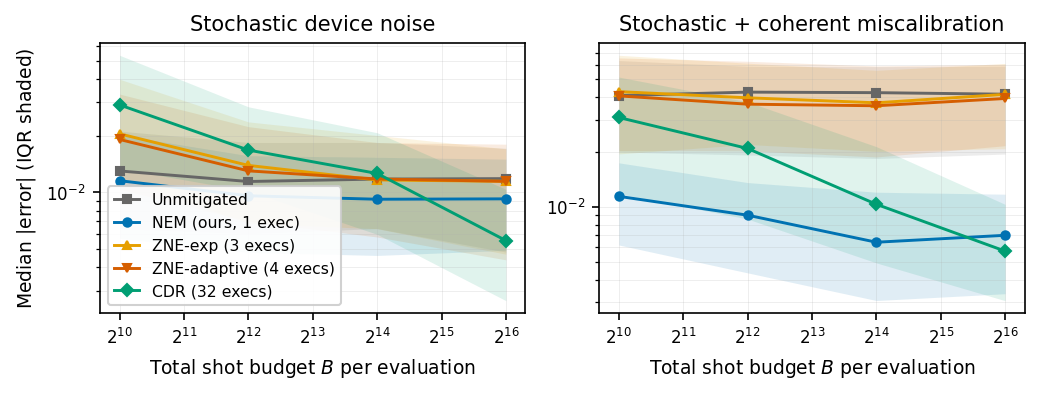
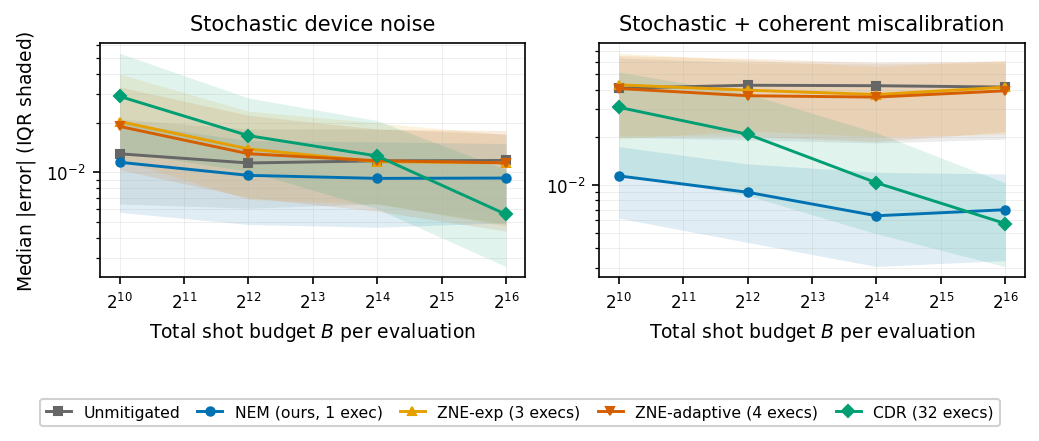
Fix figure legibility: straighten Figure 1 fusion arrows, separate cost/result boxes, move Fig 2-4 legends outside plot area

diff --git a/paper/figures/overview_diagram.tex b/paper/figures/overview_diagram.tex
@@ -112,11 +112,9 @@
 \node[bluebox, minimum width=2.7cm, minimum height=0.9cm] (pred) at (20.15, 2.3)
     {$\langle H \rangle_{\mathrm{pred}} \approx \langle H \rangle_{\mathrm{ideal}}$};
 
-% embeddings into the fusion block (orthogonal routing)
-\draw[arrow, rounded corners=6pt] (mlpc.east) -- ++(0.50, 0) |- ($(fusion.west)+(0, 0.35)$);
-\draw[arrow, rounded corners=6pt] (mlpn.east) -- ++(0.50, 0) |- ($(fusion.west)+(0,-0.35)$);
-\node[font=\sffamily\footnotesize] at (13.42, 3.38) {$\mathbf{z}_c$};
-\node[font=\sffamily\footnotesize] at (13.42, 1.22) {$\mathbf{z}_n$};
+% embeddings converge into the fusion block (straight arrows)
+\draw[arrow] (mlpc.east) -- ($(fusion.west)+(0, 0.42)$);
+\draw[arrow] (mlpn.east) -- ($(fusion.west)+(0,-0.42)$);
 
 % noisy value feeds the fusion directly (clear corridor between branches)
 \draw[arrow] (hnoisy.east) -- (fusion.west);
@@ -131,15 +129,18 @@
 % =====================================================================
 % (d) Complementarity strip
 % =====================================================================
-\node[font=\sffamily\footnotesize\bfseries, text=black!70] at (10.75, -0.18)
+\node[font=\sffamily\footnotesize\bfseries, text=black!70] at (10.75, 0.10)
     {Equal-budget comparison: every method spends the same total shots $B$ per evaluation};
 
-\node[greenbox, minimum width=10.4cm, minimum height=1.1cm] (regA) at (5.2, -1.10)
-    {\textbf{Quantum cost per evaluation} --- NEM: 1 execution (offline training amortized)\\
-     ZNE: 3--5 executions at $B/3$--$B/5$ shots each \quad CDR: 32 executions at $B/32$ shots each};
-\node[redbox, minimum width=10.4cm, minimum height=1.1cm] (regB) at (16.3, -1.10)
-    {\textbf{Result} --- at $B \le 2^{14}$, NEM is the only method beating unmitigated execution\\
-     (+72--81\% under miscalibration); CDR overtakes only at $B = 2^{16}$; ZNE unsafe under coherent noise};
+\node[greenbox, text width=9.7cm, minimum width=10.4cm, minimum height=1.1cm]
+     (regA) at (5.2, -1.25)
+    {\textbf{Quantum cost per evaluation} --- NEM: 1 execution (offline training amortized);
+     ZNE: 3--5 executions at $B/3$--$B/5$ shots each; CDR: 32 executions at $B/32$ shots each};
+\node[redbox, text width=9.7cm, minimum width=10.4cm, minimum height=1.1cm]
+     (regB) at (16.3, -1.25)
+    {\textbf{Result} --- at $B \le 2^{14}$, NEM is the only method beating unmitigated execution
+     (+72--81\% under miscalibration); CDR overtakes only at $B = 2^{16}$;
+     ZNE unsafe under coherent noise};
 
 \end{tikzpicture}
 \end{document}

diff --git a/experiments/scripts/make_figures.py b/experiments/scripts/make_figures.py
@@ -100,8 +100,12 @@ def fig_budget_pareto():
         ax.set_title(titles[regime])
         ax.grid(alpha=0.25, which="both", lw=0.4)
     axes[0].set_ylabel("Median $|$error$|$ (IQR shaded)")
-    axes[0].legend(loc="lower left", framealpha=0.9, handlelength=1.6)
+    handles, labels = axes[0].get_legend_handles_labels()
     fig.tight_layout()
+    fig.legend(handles, labels, loc="upper center", bbox_to_anchor=(0.5, 0.02),
+               ncol=5, frameon=True, framealpha=0.9, handlelength=1.6,
+               columnspacing=1.1)
+    fig.subplots_adjust(bottom=0.30)
     for ext in ("pdf", "png"):
         fig.savefig(FIGDIR / f"budget_pareto.{ext}")
     plt.close(fig)
@@ -113,7 +117,7 @@ def fig_phase_boundary():
     deltas = d["delta_points"]
     methods = ["raw", "neural", "zne_exponential", "zne_adaptive", "cdr"]
 
-    fig, ax = plt.subplots(figsize=(3.6, 2.7))
+    fig, ax = plt.subplots(figsize=(4.4, 2.7))
     for m in methods:
         med, lo, hi = [], [], []
         for delta in deltas:
@@ -128,8 +132,12 @@ def fig_phase_boundary():
     ax.set_xlabel(r"Coherent miscalibration bias $\delta$ (rad)")
     ax.set_ylabel("Median $|$error$|$ (IQR shaded)")
     ax.grid(alpha=0.25, which="both", lw=0.4)
-    ax.legend(loc="upper left", framealpha=0.9, handlelength=1.6)
+    handles, labels = ax.get_legend_handles_labels()
     fig.tight_layout()
+    fig.legend(handles, labels, loc="upper center", bbox_to_anchor=(0.5, 0.04),
+               ncol=3, frameon=True, framealpha=0.9, handlelength=1.6,
+               columnspacing=1.1)
+    fig.subplots_adjust(bottom=0.34)
     for ext in ("pdf", "png"):
         fig.savefig(FIGDIR / f"phase_boundary.{ext}")
     plt.close(fig)
@@ -174,8 +182,12 @@ def fig_scaling():
         ax.set_xticks(sizes)
         ax.grid(alpha=0.25, lw=0.4)
     axes[0].set_ylabel("Median error reduction (%)")
-    axes[0].legend(loc="lower left", framealpha=0.9, handlelength=1.6)
+    handles, labels = axes[0].get_legend_handles_labels()
     fig.tight_layout()
+    fig.legend(handles, labels, loc="upper center", bbox_to_anchor=(0.5, 0.04),
+               ncol=3, frameon=True, framealpha=0.9, handlelength=1.6,
+               columnspacing=1.1)
+    fig.subplots_adjust(bottom=0.28)
     for ext in ("pdf", "png"):
         fig.savefig(FIGDIR / f"scaling.{ext}")
     plt.close(fig)